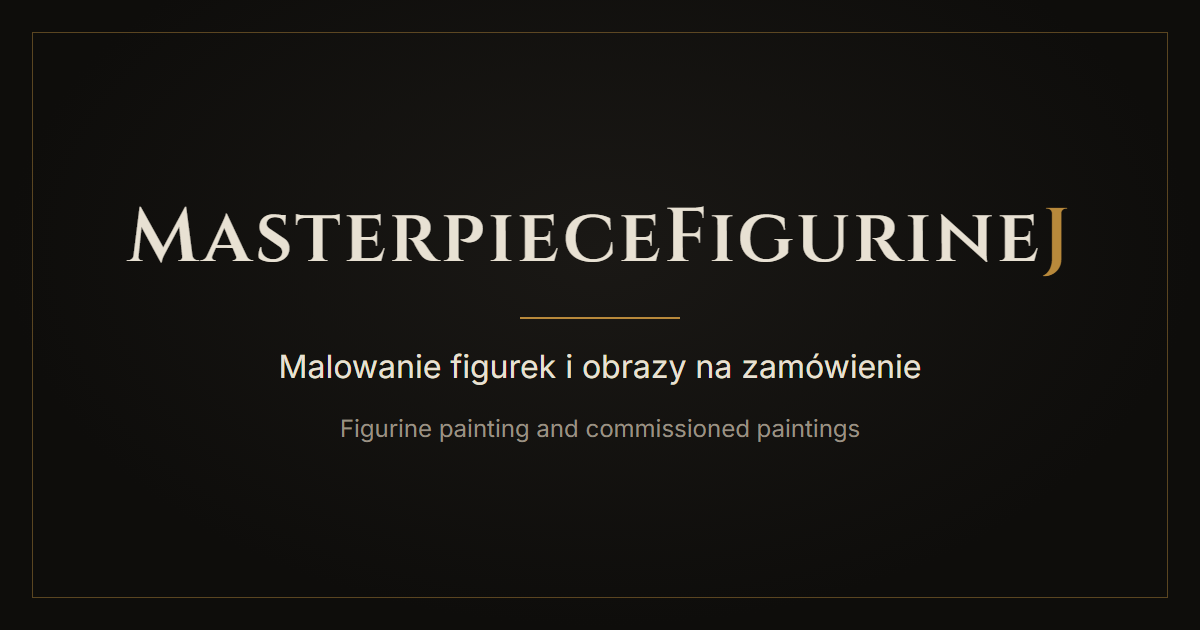
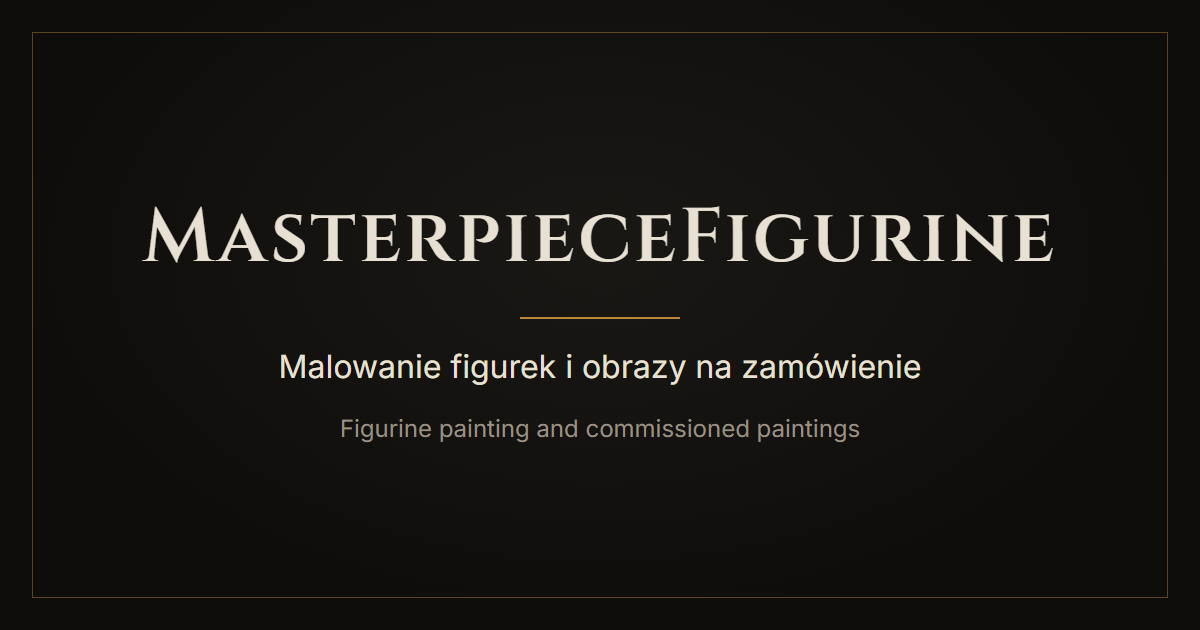
chore(brand): drop the J from the brand name: MasterpieceFigurine
Logo, page titles, share image, privacy policy, docs and the package name. The target domain
becomes masterpiecefigurine.com.

Changed region(s): [[0.0925, 0.3317, 0.8942, 0.4524]]

diff --git a/e2e/seo.spec.ts b/e2e/seo.spec.ts
@@ -23,7 +23,7 @@ test.describe('prerendered HTML (before any JavaScript runs)', () => {
 
       expect(html, path).toContain(`<html lang="${lang ?? ''}">`);
       const title = /<title>([^<]*)<\/title>/.exec(html)?.[1] ?? '';
-      expect(title, path).toMatch(/.+ \| MasterpieceFigurineJ$/);
+      expect(title, path).toMatch(/.+ \| MasterpieceFigurine$/);
       expect(attribute(html, 'name="description"', 'content'), path).toBeTruthy();
       expect(attribute(html, 'rel="canonical"', 'href'), path).toMatch(new RegExp(`${path}$`));
       for (const hreflang of ['pl', 'en', 'x-default']) {
@@ -106,7 +106,7 @@ test.describe('hydration', () => {
     await page.goto('/pl');
     // The Hero button, as the header menu is collapsed on phones.
     await page.getByRole('link', { name: 'Zamów malowanie' }).click();
-    await expect(page).toHaveTitle('Kontakt i zamówienia | MasterpieceFigurineJ');
+    await expect(page).toHaveTitle('Kontakt i zamówienia | MasterpieceFigurine');
     await expect(page.locator('link[rel="canonical"]')).toHaveAttribute('href', /\/pl\/kontakt$/);
     await expect(page.locator('link[rel="canonical"]')).toHaveCount(1);
   });

diff --git a/src/entry-server.test.tsx b/src/entry-server.test.tsx
@@ -4,7 +4,7 @@ import { renderPage } from './entry-server';
 const template = `<!doctype html>
 <html lang="pl">
   <head>
-    <title>MasterpieceFigurineJ</title>
+    <title>MasterpieceFigurine</title>
   </head>
   <body>
     <div id="root"></div>
@@ -15,7 +15,7 @@ describe('renderPage', () => {
   it('renders a page with its content, language, head tags and hydration data', async () => {
     const html = await renderPage('/en/contact', template);
     expect(html).toContain('<html lang="en">');
-    expect(html).toContain('<title>Contact and commissions | MasterpieceFigurineJ</title>');
+    expect(html).toContain('<title>Contact and commissions | MasterpieceFigurine</title>');
     expect(html).toMatch(/<link rel="alternate" hreflang="pl" href="[^"]+\/pl\/kontakt"/);
     expect(html).toMatch(/<h1[^>]*>Contact<\/h1>/);
     expect(html).toContain('window.__staticRouterHydrationData');

diff --git a/src/lib/usePageMeta.test.tsx b/src/lib/usePageMeta.test.tsx
@@ -16,7 +16,7 @@ afterEach(() => {
 describe('applyPageMeta', () => {
   it('sets the title and adds the page tags', () => {
     applyPageMeta(document, getPageMeta('/en/contact'));
-    expect(document.title).toBe('Contact and commissions | MasterpieceFigurineJ');
+    expect(document.title).toBe('Contact and commissions | MasterpieceFigurine');
     expect(canonical()).toBe(absoluteUrl('/en/contact'));
     expect(document.head.querySelector('script[type="application/ld+json"]')).not.toBeNull();
   });
@@ -54,7 +54,7 @@ describe('usePageMeta', () => {
     expect(canonical()).toBe(absoluteUrl('/pl/kontakt'));
 
     await act(() => router.navigate('/en/privacy'));
-    expect(document.title).toBe('Privacy policy | MasterpieceFigurineJ');
+    expect(document.title).toBe('Privacy policy | MasterpieceFigurine');
     expect(canonical()).toBe(absoluteUrl('/en/privacy'));
   });
 });

diff --git a/e2e/layout.spec.ts b/e2e/layout.spec.ts
@@ -32,7 +32,7 @@ test.describe('keyboard navigation (desktop)', () => {
 
     const expectedOrder = [
       page.getByRole('link', { name: 'Przejdź do treści' }),
-      banner.getByRole('link', { name: 'MasterpieceFigurineJ' }),
+      banner.getByRole('link', { name: 'MasterpieceFigurine' }),
       banner.getByRole('link', { name: 'Portfolio' }),
       banner.getByRole('link', { name: 'Kontakt' }),
       banner.getByRole('link', { name: 'PL – Polski' }),

diff --git a/e2e/home.spec.ts b/e2e/home.spec.ts
@@ -6,7 +6,7 @@ test.describe('home page', () => {
     await page.goto('/pl');
 
     await expect(page).toHaveTitle(
-      'Julia – malowanie figurek i obrazy na zamówienie | MasterpieceFigurineJ',
+      'Julia – malowanie figurek i obrazy na zamówienie | MasterpieceFigurine',
     );
     await expect(page.getByRole('heading', { level: 1, name: 'Julia' })).toBeVisible();
     await expect(page.getByRole('img', { name: /Julia/ })).toBeVisible();

diff --git a/src/components/Layout/Header/Header.test.tsx b/src/components/Layout/Header/Header.test.tsx
@@ -11,7 +11,7 @@ describe('Header', () => {
   it('links the brand to the home page and shows the navigation', () => {
     renderWithProviders(<Header />, { route: '/pl' });
 
-    expect(screen.getByRole('link', { name: 'MasterpieceFigurineJ' })).toHaveAttribute(
+    expect(screen.getByRole('link', { name: 'MasterpieceFigurine' })).toHaveAttribute(
       'href',
       '/pl',
     );

diff --git a/src/config/site.ts b/src/config/site.ts
@@ -4,7 +4,7 @@
  */
 export const site = {
   artistName: 'Julia',
-  brand: 'MasterpieceFigurineJ',
+  brand: 'MasterpieceFigurine',
   /** Photo of Julia on the home page; replace the placeholder with a real, dark-toned photo. */
   portrait: '/julia.svg',
   url: import.meta.env.VITE_SITE_URL ?? 'https://masterpiecefigurine.netlify.app',

diff --git a/index.html b/index.html
@@ -4,7 +4,7 @@
     <meta charset="UTF-8" />
     <link rel="icon" type="image/svg+xml" href="/favicon.svg" />
     <meta name="viewport" content="width=device-width, initial-scale=1.0" />
-    <title>MasterpieceFigurineJ</title>
+    <title>MasterpieceFigurine</title>
   </head>
   <body>
     <div id="root"></div>

diff --git a/CLAUDE.md b/CLAUDE.md
@@ -1,4 +1,4 @@
-# MasterpieceFigurineJ – rules for Claude
+# MasterpieceFigurine – rules for Claude
 
 Portfolio site for Julia, a figurine and painting artist. The full plan, task list and
 decisions live in `PLAN.md` (written in Polish). All code, comments, commits and docs are in English.

diff --git a/README.md b/README.md
@@ -1,4 +1,4 @@
-# MasterpieceFigurineJ
+# MasterpieceFigurine
 
 Portfolio and commission site for Julia, an artist who paints figurines and paintings.
 Bilingual (Polish default, English). See [`PLAN.md`](./PLAN.md) for the full plan and task list.
